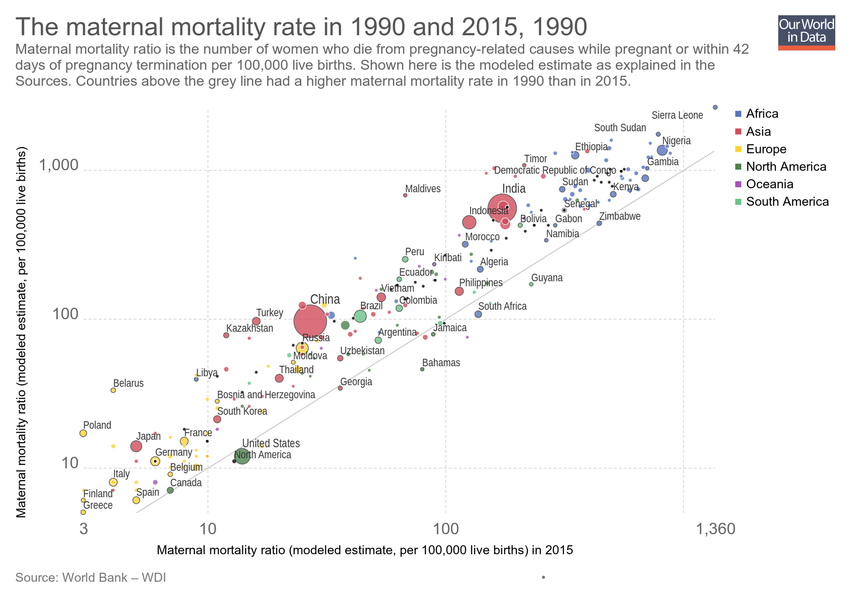
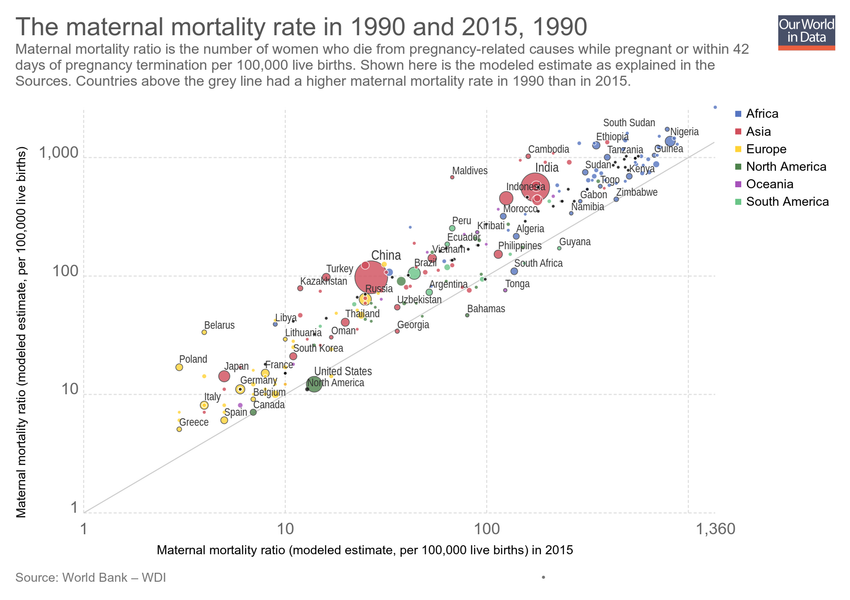
Updating chart the-maternal-mortality-rate-in-1990-and-2015

diff --git a/grapher/the-maternal-mortality-rate-in-1990-and-2015.html b/grapher/the-maternal-mortality-rate-in-1990-and-2015.html
@@ -1,4 +1,4 @@
-<!doctype html><html><head><meta name="viewport" content="width=device-width, initial-scale=1" /><title>The maternal mortality rate in 1990 and 2015 - Our World in Data</title><meta name="description" content="Maternal mortality ratio is the number of women who die from pregnancy-related causes while pregnant or within 42 days of pregnancy termination per 100,000 live births. Shown here is the modeled estimate as explained in the Sources. Countries above the grey line had a higher maternal mortality rate in 1990 than in 2015." /><link rel="canonical" href="https://ourworldindata.org/grapher/the-maternal-mortality-rate-in-1990-and-2015" /><meta property="fb:app_id" content="1149943818390250" /><meta property="og:url" content="https://ourworldindata.org/grapher/the-maternal-mortality-rate-in-1990-and-2015" /><meta property="og:title" content="The maternal mortality rate in 1990 and 2015" /><meta property="og:description" content="Maternal mortality ratio is the number of women who die from pregnancy-related causes while pregnant or within 42 days of pregnancy termination per 100,000 live births. Shown here is the modeled estimate as explained in the Sources. Countries above the grey line had a higher maternal mortality rate in 1990 than in 2015." /><meta property="og:image" content="https://ourworldindata.org/grapher/exports/the-maternal-mortality-rate-in-1990-and-2015.png?v=2" /><meta property="og:image:width" content="850" /><meta property="og:image:height" content="600" /><meta property="og:site_name" content="Our World in Data" /><meta name="twitter:card" content="summary_large_image" /><meta name="twitter:site" content="@OurWorldInData" /><meta name="twitter:creator" content="@OurWorldInData" /><meta name="twitter:title" content="The maternal mortality rate in 1990 and 2015" /><meta name="twitter:description" content="Maternal mortality ratio is the number of women who die from pregnancy-related causes while pregnant or within 42 days of pregnancy termination per 100,000 live births. Shown here is the modeled estimate as explained in the Sources. Countries above the grey line had a higher maternal mortality rate in 1990 than in 2015." /><meta name="twitter:image" content="https://ourworldindata.org/grapher/exports/the-maternal-mortality-rate-in-1990-and-2015.png?v=2" /><style>
+<!doctype html><html><head><meta name="viewport" content="width=device-width, initial-scale=1" /><title>The maternal mortality rate in 1990 and 2015 - Our World in Data</title><meta name="description" content="Maternal mortality ratio is the number of women who die from pregnancy-related causes while pregnant or within 42 days of pregnancy termination per 100,000 live births. Shown here is the modeled estimate as explained in the Sources. Countries above the grey line had a higher maternal mortality rate in 1990 than in 2015." /><link rel="canonical" href="https://ourworldindata.org/grapher/the-maternal-mortality-rate-in-1990-and-2015" /><meta property="fb:app_id" content="1149943818390250" /><meta property="og:url" content="https://ourworldindata.org/grapher/the-maternal-mortality-rate-in-1990-and-2015" /><meta property="og:title" content="The maternal mortality rate in 1990 and 2015" /><meta property="og:description" content="Maternal mortality ratio is the number of women who die from pregnancy-related causes while pregnant or within 42 days of pregnancy termination per 100,000 live births. Shown here is the modeled estimate as explained in the Sources. Countries above the grey line had a higher maternal mortality rate in 1990 than in 2015." /><meta property="og:image" content="https://ourworldindata.org/grapher/exports/the-maternal-mortality-rate-in-1990-and-2015.png?v=4" /><meta property="og:image:width" content="850" /><meta property="og:image:height" content="600" /><meta property="og:site_name" content="Our World in Data" /><meta name="twitter:card" content="summary_large_image" /><meta name="twitter:site" content="@OurWorldInData" /><meta name="twitter:creator" content="@OurWorldInData" /><meta name="twitter:title" content="The maternal mortality rate in 1990 and 2015" /><meta name="twitter:description" content="Maternal mortality ratio is the number of women who die from pregnancy-related causes while pregnant or within 42 days of pregnancy termination per 100,000 live births. Shown here is the modeled estimate as explained in the Sources. Countries above the grey line had a higher maternal mortality rate in 1990 than in 2015." /><meta name="twitter:image" content="https://ourworldindata.org/grapher/exports/the-maternal-mortality-rate-in-1990-and-2015.png?v=4" /><style>
         html, body {
             height: 100%;
             margin: 0;
@@ -20,8 +20,8 @@
         }
     </style><noscript><style>
                     figure { display: none !important; }
-                </style></noscript><link rel="stylesheet" href="https://ourworldindata.org/grapher/assets/commons.bundle.dcbbe53805c487d5e57617b10ac73a8a.css" /><link rel="preload" href="/grapher/data/variables/3389+72+123.json?v=2" as="fetch" crossorigin /></head><body class="singleChart"><figure data-grapher-src="/grapher/the-maternal-mortality-rate-in-1990-and-2015"></figure><noscript id="fallback"><img src="/grapher/exports/the-maternal-mortality-rate-in-1990-and-2015.svg" /><p>Interactive visualization requires JavaScript</p></noscript><script src="https://cdn.polyfill.io/v2/polyfill.min.js?features=es6,fetch"></script><script src="https://ourworldindata.org/grapher/assets/commons.bundle.db4e4065dcbf33bcd3d7.js"></script><script src="https://ourworldindata.org/grapher/assets/charts.bundle.db4e4065dcbf33bcd3d7.js"></script><script>
-        var jsonConfig = {"id":948,"map":{"projection":"World","targetYear":1980,"variableId":72,"timeTolerance":1,"baseColorScheme":"BuGn","colorSchemeInvert":false,"colorSchemeLabels":[],"colorSchemeValues":[],"legendDescription":"","customColorsActive":false,"customNumericColors":[],"customCategoryColors":{},"customCategoryLabels":{},"customHiddenCategories":{}},"tab":"chart","note":"","slug":"the-maternal-mortality-rate-in-1990-and-2015","type":"ScatterPlot","title":"The maternal mortality rate in 1990 and 2015","xAxis":{"scaleType":"log","canChangeScaleType":true},"yAxis":{"min":0,"scaleType":"log","labelDistance":-10,"canChangeScaleType":true},"maxTime":1990,"minTime":1990,"version":2,"subtitle":"Maternal mortality ratio is the number of women who die from pregnancy-related causes while pregnant or within 42 days of pregnancy termination per 100,000 live births. Shown here is the modeled estimate as explained in the Sources. Countries above the grey line had a higher maternal mortality rate in 1990 than in 2015.","hasMapTab":false,"originUrl":"https://ourworldindata.org/maternal-mortality/","stackMode":null,"dimensions":[{"display":{"name":"Maternal mortality ratio (modeled estimate, per 100,000 live births)","unit":"modeled estimate, per 100,000 live births","shortUnit":"","tolerance":1,"isProjection":false},"property":"x","targetYear":2015,"variableId":3389},{"display":{"name":"Maternal mortality ratio (modeled estimate, per 100,000 live births)","unit":"modeled estimate, per 100,000 live births","shortUnit":"","tolerance":1,"isProjection":false},"property":"y","variableId":3389},{"display":{"name":"Total population (Gapminder)","unit":"","tolerance":5,"isProjection":false},"property":"size","variableId":72},{"display":{},"property":"color","variableId":123}],"entityType":"country","hideLegend":true,"hasChartTab":true,"isPublished":true,"hideTimeline":true,"selectedData":[],"internalNotes":"","addCountryMode":"add-country","comparisonLine":{"yEquals":"x"},"hideRelativeToggle":false};
+                </style></noscript><link rel="stylesheet" href="https://ourworldindata.org/grapher/assets/commons.bundle.dcbbe53805c487d5e57617b10ac73a8a.css" /><link rel="preload" href="/grapher/data/variables/3389+72+123.json?v=4" as="fetch" crossorigin /></head><body class="singleChart"><figure data-grapher-src="/grapher/the-maternal-mortality-rate-in-1990-and-2015"></figure><noscript id="fallback"><img src="/grapher/exports/the-maternal-mortality-rate-in-1990-and-2015.svg" /><p>Interactive visualization requires JavaScript</p></noscript><script src="https://cdn.polyfill.io/v2/polyfill.min.js?features=es6,fetch"></script><script src="https://ourworldindata.org/grapher/assets/commons.bundle.db4e4065dcbf33bcd3d7.js"></script><script src="https://ourworldindata.org/grapher/assets/charts.bundle.db4e4065dcbf33bcd3d7.js"></script><script>
+        var jsonConfig = {"id":948,"map":{"projection":"World","targetYear":1980,"variableId":72,"timeTolerance":1,"baseColorScheme":"BuGn","colorSchemeInvert":false,"colorSchemeLabels":[],"colorSchemeValues":[],"legendDescription":"","customColorsActive":false,"customNumericColors":[],"customCategoryColors":{},"customCategoryLabels":{},"customHiddenCategories":{}},"tab":"chart","note":"","slug":"the-maternal-mortality-rate-in-1990-and-2015","type":"ScatterPlot","title":"The maternal mortality rate in 1990 and 2015","xAxis":{"min":1,"scaleType":"log","canChangeScaleType":true},"yAxis":{"min":1,"scaleType":"log","labelDistance":-10,"canChangeScaleType":true},"maxTime":1990,"minTime":1990,"version":4,"subtitle":"Maternal mortality ratio is the number of women who die from pregnancy-related causes while pregnant or within 42 days of pregnancy termination per 100,000 live births. Shown here is the modeled estimate as explained in the Sources. Countries above the grey line had a higher maternal mortality rate in 1990 than in 2015.","hasMapTab":false,"originUrl":"https://ourworldindata.org/maternal-mortality/","stackMode":null,"dimensions":[{"display":{"name":"Maternal mortality ratio (modeled estimate, per 100,000 live births)","unit":"modeled estimate, per 100,000 live births","shortUnit":"","tolerance":1,"isProjection":false},"property":"x","targetYear":2015,"variableId":3389},{"display":{"name":"Maternal mortality ratio (modeled estimate, per 100,000 live births)","unit":"modeled estimate, per 100,000 live births","shortUnit":"","tolerance":1,"isProjection":false},"property":"y","variableId":3389},{"display":{"name":"Total population (Gapminder)","unit":"","tolerance":5,"isProjection":false},"property":"size","variableId":72},{"display":{},"property":"color","variableId":123}],"entityType":"country","hideLegend":true,"hasChartTab":true,"isPublished":true,"hideTimeline":true,"selectedData":[],"internalNotes":"","addCountryMode":"add-country","comparisonLine":{"yEquals":"x"},"hideRelativeToggle":false};
         var figure = document.getElementsByTagName("figure")[0];
         try {
             window.App = {};
